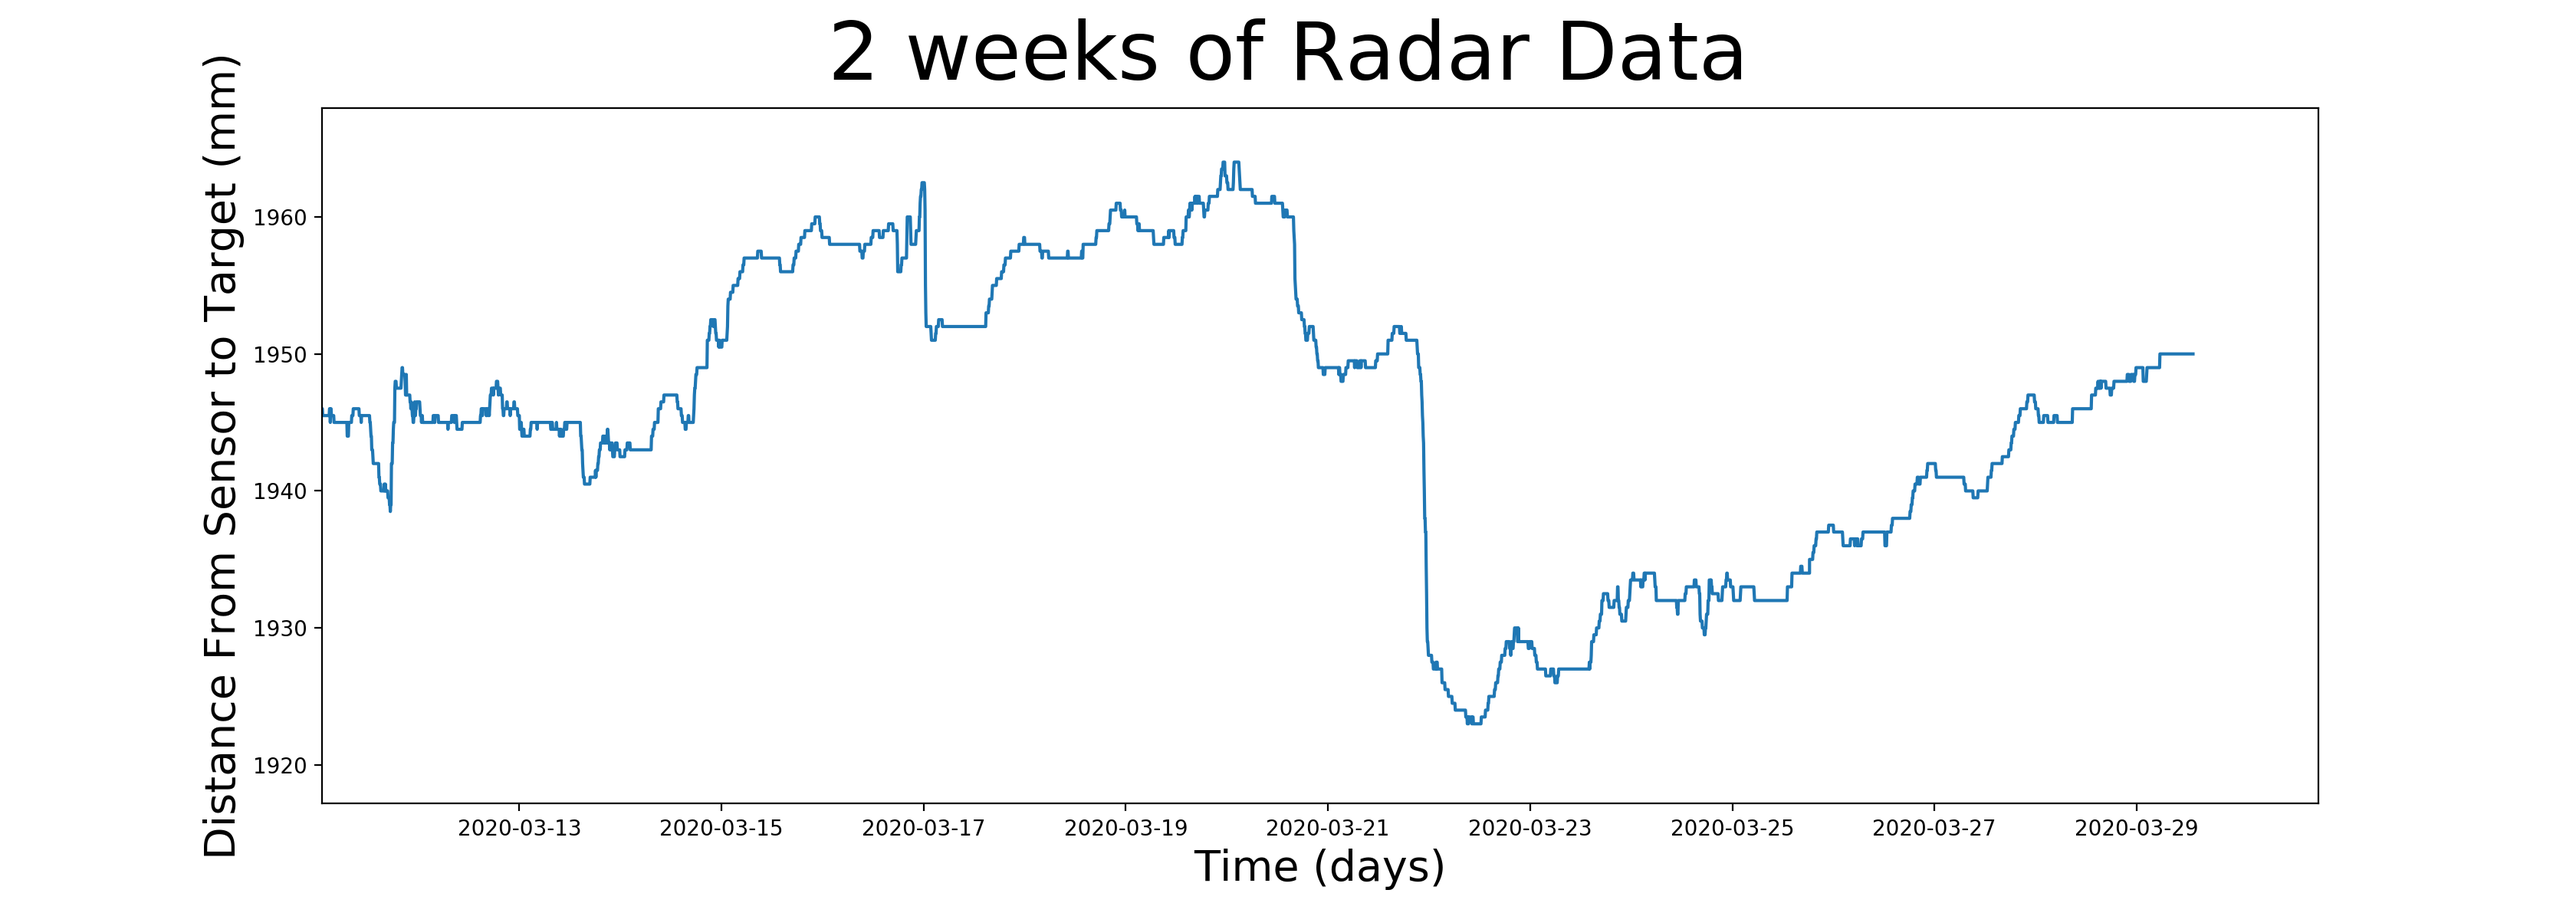
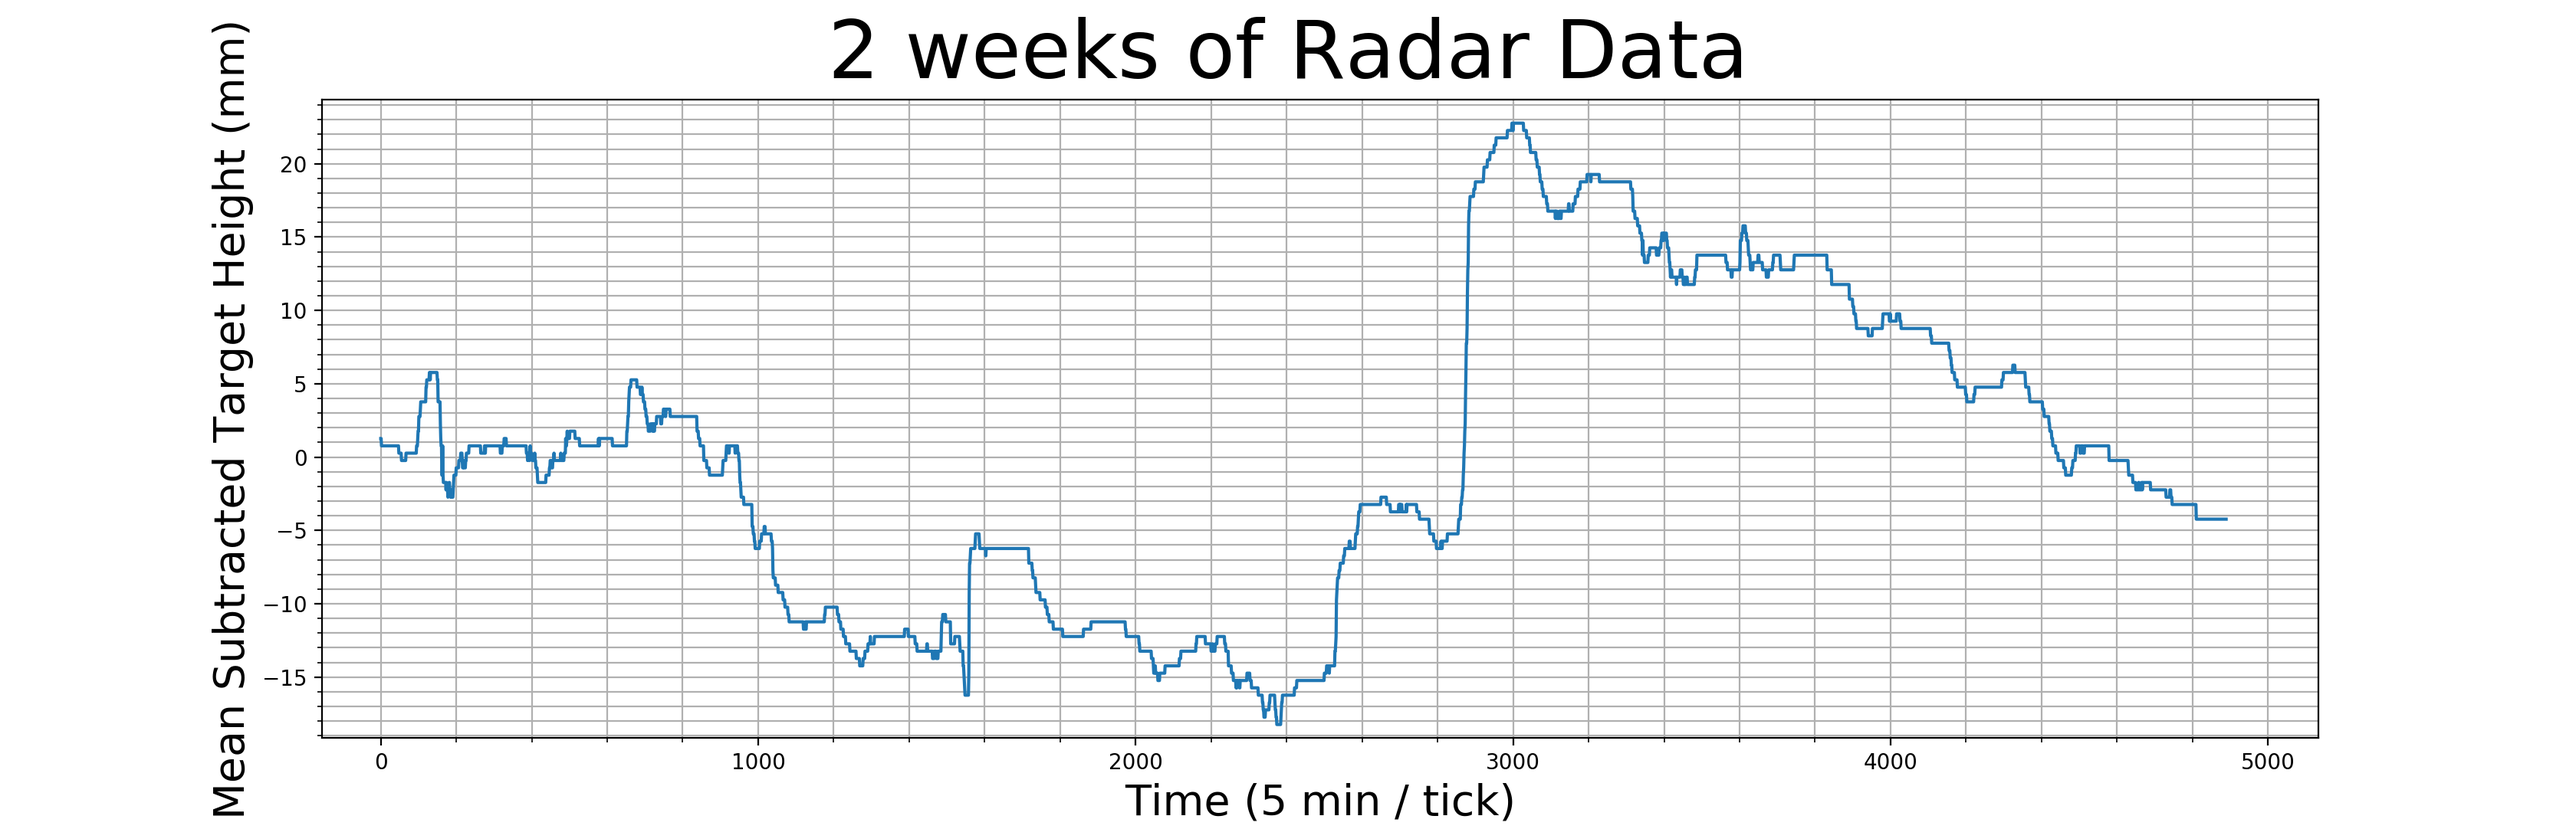
Prettier radar plot

Changed region(s): [[0.0625, 0.0305, 0.9062, 1.0]]

diff --git a/radar/localAnalysis.py b/radar/localAnalysis.py
@@ -15,7 +15,11 @@ with open('sensor_vals.pkl', 'rb') as f:
 date_nums = saved_data[0]
 sensor_values = np.array(saved_data[1])[:,1:]
 sensor_med = [np.median(x) for x in sensor_values]
-med_med = signal.medfilt(sensor_med, [15])
+
+interesting = sensor_med[500:]
+
+med_med = signal.medfilt(interesting, [21])
+med_med = (-med_med + np.mean(med_med))
 
 #fs = 1/300
 #bands =   [0, 1*fs/16, 2*fs/8, 3*fs/8] 
@@ -28,8 +32,11 @@ med_med = signal.medfilt(sensor_med, [15])
 
 fig = matplotlib.pyplot.figure()
 fig.suptitle("2 weeks of Radar Data", fontsize=38)
-matplotlib.pyplot.plot_date(date_nums, med_med, ls='-', ms=0)
-matplotlib.pyplot.xlabel("Time (days)", fontsize=20)
-matplotlib.pyplot.ylabel("Distance From Sensor to Target (mm)", fontsize=20)
+#matplotlib.pyplot.plot_date(date_nums, med_med, ls='-', ms=0)
+matplotlib.pyplot.plot(med_med, ls='-', ms=0)
+matplotlib.pyplot.xlabel("Time (5 min / tick)", fontsize=20)
+matplotlib.pyplot.ylabel("Mean Subtracted Target Height (mm)", fontsize=20)
+matplotlib.pyplot.minorticks_on()
+matplotlib.pyplot.grid(b=None, which='both', axis='both')
 #matplotlib.pyplot.plot_date(date_nums, sensor_values)
 matplotlib.pyplot.show()
